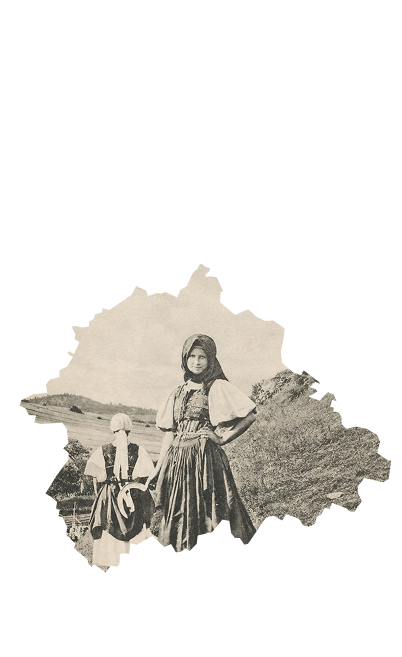
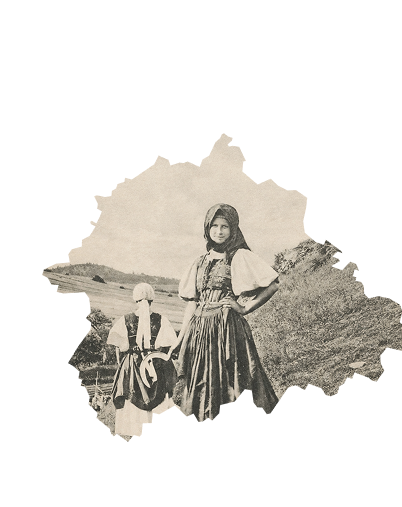
Mobile menu: wider panel, dimmed+blurred backdrop; full-width phone map
- Side menu is half the screen but at least 320px, so the logo, links and
  the one-line 'Получить консультацию' button fit without overlapping;
  the rest of the page is dimmed 20% and blurred while it is open
  (tapping it closes the menu); logo link no longer extends under the X
- About block below 560px: new phone image (402x507), full block width,
  directly under the text, nothing cropped

Claude-Session: https://claude.ai/code/session_01XBga8g7oiPbhFfgygAHQL5

Changed region(s): [[0.0299, 0.2663, 1.0, 0.8876]]

diff --git a/css/style.css b/css/style.css
@@ -315,7 +315,22 @@ h3, .h3 { font-size: var(--fs-h3); line-height: 1.3; }
 .header__burger[aria-expanded="true"] .burger__line--bot { transform: rotate(-45deg) translateY(-7px); }
 .is-menu-open .header__burger { background-color: var(--red); }   /* и над первым экраном */
 
-/* меню: панель справа на половину ширины и всю высоту экрана. Сверху знак с подписью, под ним пункты,
+/* затемнение и размытие страницы под открытым меню */
+.mobile-menu__backdrop {
+  position: fixed;
+  inset: 0;
+  z-index: 0;
+  display: none;
+  background: rgba(0, 0, 0, .2);
+  -webkit-backdrop-filter: blur(4px);
+          backdrop-filter: blur(4px);
+  opacity: 0;
+  visibility: hidden;
+  transition: opacity .45s ease, visibility 0s linear .45s;
+}
+.is-menu-open .mobile-menu__backdrop { opacity: 1; visibility: visible; transition-delay: 0s; }
+
+/* меню: панель справа на половину ширины и всю высоту экрана (но не уже 320px — чтобы всё помещалось). Сверху знак с подписью, под ним пункты,
    внизу — кнопка «Получить консультацию» в 32px от нижнего края экрана */
 .mobile-menu {
   position: fixed;
@@ -325,7 +340,7 @@ h3, .h3 { font-size: var(--fs-h3); line-height: 1.3; }
   z-index: 1;
   display: none;
   flex-direction: column;
-  width: 50vw;
+  width: max(50vw, min(100vw, 320px));
   height: 100vh;
   height: 100dvh;
   box-sizing: border-box;
@@ -340,6 +355,7 @@ h3, .h3 { font-size: var(--fs-h3); line-height: 1.3; }
 .mobile-menu.is-open { transform: none; visibility: visible; transition-delay: 0s; }
 .mobile-menu__logo {
   display: inline-flex;
+  align-self: flex-start;                             /* только по ширине знака с подписью — не заходит под бургер */
   align-items: center;
   gap: var(--s-8);
   min-height: 36px;
@@ -356,7 +372,6 @@ h3, .h3 { font-size: var(--fs-h3); line-height: 1.3; }
   padding-inline: var(--s-16);
   background: var(--white);
   color: var(--red);
-  white-space: normal;
   text-align: center;
 }
 .mobile-menu__cta:hover { background: var(--bg); box-shadow: none; }
@@ -997,9 +1012,8 @@ h3, .h3 { font-size: var(--fs-h3); line-height: 1.3; }
   .russia__list { gap: var(--s-16); }
   .russia__list li { gap: var(--s-16); }
 }
-/* до 560px: картинка для телефона (img/about/sec-3-mobile.png) — сразу под текстом, без наложения.
-   На 559px она в 1.3 раза меньше своей полной ширины (430px вместо 559), к 320px плавно растёт
-   до полной ширины экрана: ширина = 320px + (экран − 320px) × 0.4615 */
+/* до 560px: картинка для телефона (img/about/sec-3-mobile.png) — сразу под текстом, без наложения,
+   во всю ширину блока (за полями страницы), ничего не обрезается */
 @media (max-width: 559px) {
   .russia.section { padding-bottom: 0; }
   .russia__title, .russia__content { max-width: none; }
@@ -1007,10 +1021,10 @@ h3, .h3 { font-size: var(--fs-h3); line-height: 1.3; }
     order: 1;                                           /* под текстом, в общем потоке */
     position: relative;
     inset: auto;
-    align-self: center;
-    width: calc(46.15vw + 172.3px);
+    align-self: stretch;
+    width: auto;
     max-width: none;
-    margin-top: 0;
+    margin: 0 calc(-1 * var(--edge));
   }
 }
 
@@ -1559,6 +1573,7 @@ h3, .h3 { font-size: var(--fs-h3); line-height: 1.3; }
   .header__bar { display: none; }
   .header__mobile { display: flex; align-items: center; justify-content: flex-end; }
   .mobile-menu { display: flex; }
+  .mobile-menu__backdrop { display: block; }
 }
 
 @media (max-width: 899px) {

diff --git a/index.html b/index.html
@@ -88,6 +88,7 @@
       </button>
     </div>
 
+    <div class="mobile-menu__backdrop" aria-hidden="true"></div>
     <div class="mobile-menu" id="mobile-menu-1">
       <a class="mobile-menu__logo" href="#top" aria-label="Семейное древо — на главную">
         <svg class="mobile-menu__mark" viewBox="0 0 370 395" xmlns="http://www.w3.org/2000/svg" aria-hidden="true" focusable="false">
@@ -253,7 +254,7 @@
            по углам справа — две области-контура (только в двухколоночной раскладке, от 1200px) -->
       <div class="russia__decor" aria-hidden="true">
         <picture>
-          <source media="(max-width: 559px)" srcset="img/about/sec-3-mobile.png" width="402" height="657">
+          <source media="(max-width: 559px)" srcset="img/about/sec-3-mobile.png" width="402" height="507">
           <source media="(max-width: 1199px)" srcset="img/about/sec-3-tablet.png" width="1001" height="763">
           <img class="russia__map" src="img/about/sec-3.webp" width="1182" height="1119" alt="" loading="lazy" decoding="async">
         </picture>
